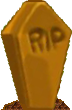
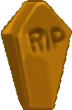
Graphisme Tombe

Changed region(s): [[0.0, 0.9, 0.3333, 1.0], [0.7222, 0.8727, 0.9722, 1.0]]

diff --git a/src/Worms.java b/src/Worms.java
@@ -202,10 +202,10 @@ public class Worms {
             //Affichage du nom
 
             font2.drawString(x - (font2.getWidth(name) / 2) + 10, y - hitBoxHauteur - 30, name, dico.get(Couleur));
-            font2.drawString(x - (font2.getWidth("" + life) / 2) + 10, y - hitBoxHauteur - 15, "" + life, dico.get(Couleur));
+            font2.drawString(x - (font2.getWidth("" + (int)life) / 2) + 10, y - hitBoxHauteur - 15, "" + (int)life, dico.get(Couleur));
         } else{
             font2.drawString(x - (font2.getWidth("RIP "+name) / 2) + 10, y - hitBoxHauteur - 15, "RIP "+name, dico.get(Couleur));
-            skinGrave.draw(x, y - hitBoxHauteur + 1,26,40);
+            skinGrave.draw(x, y - hitBoxHauteur +5,26,40);
         }
     }
 
